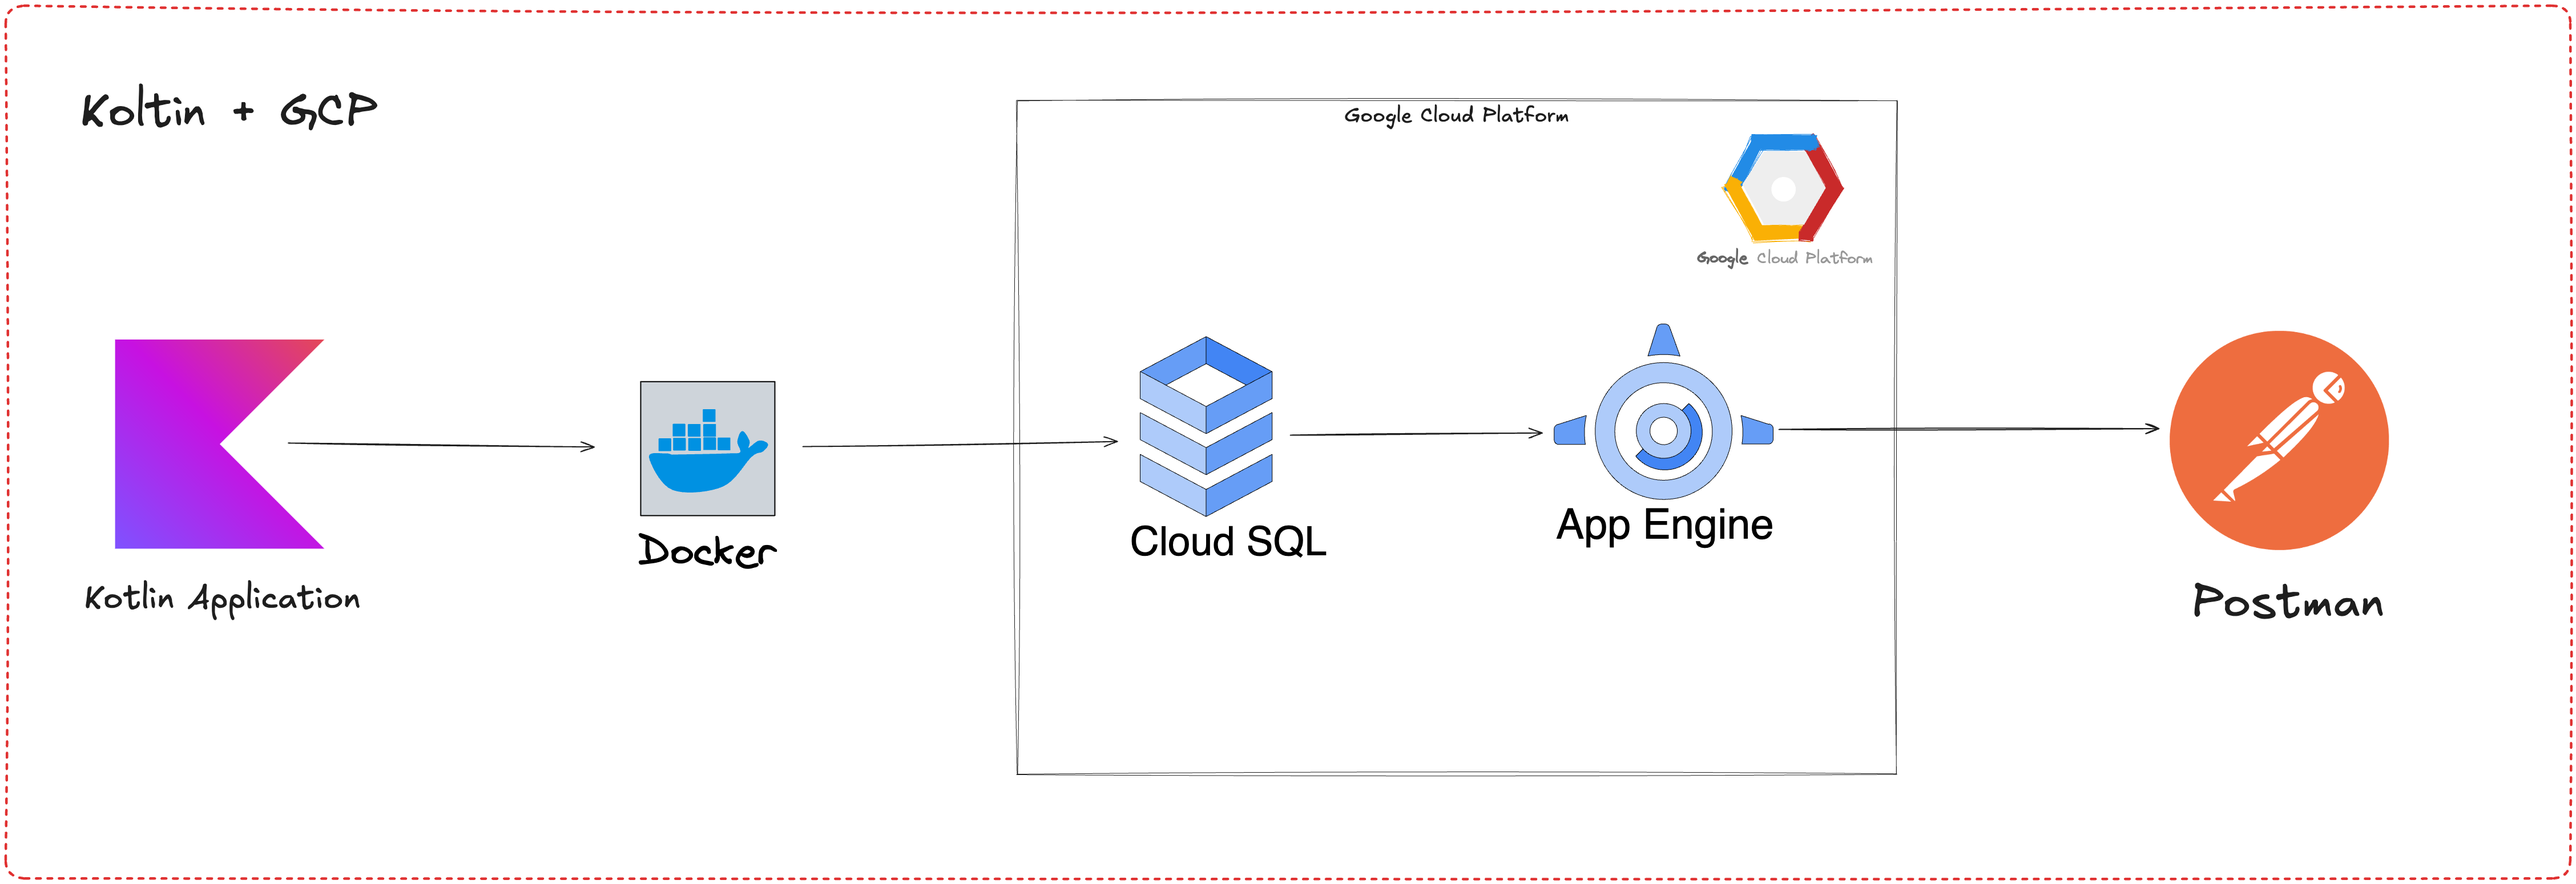
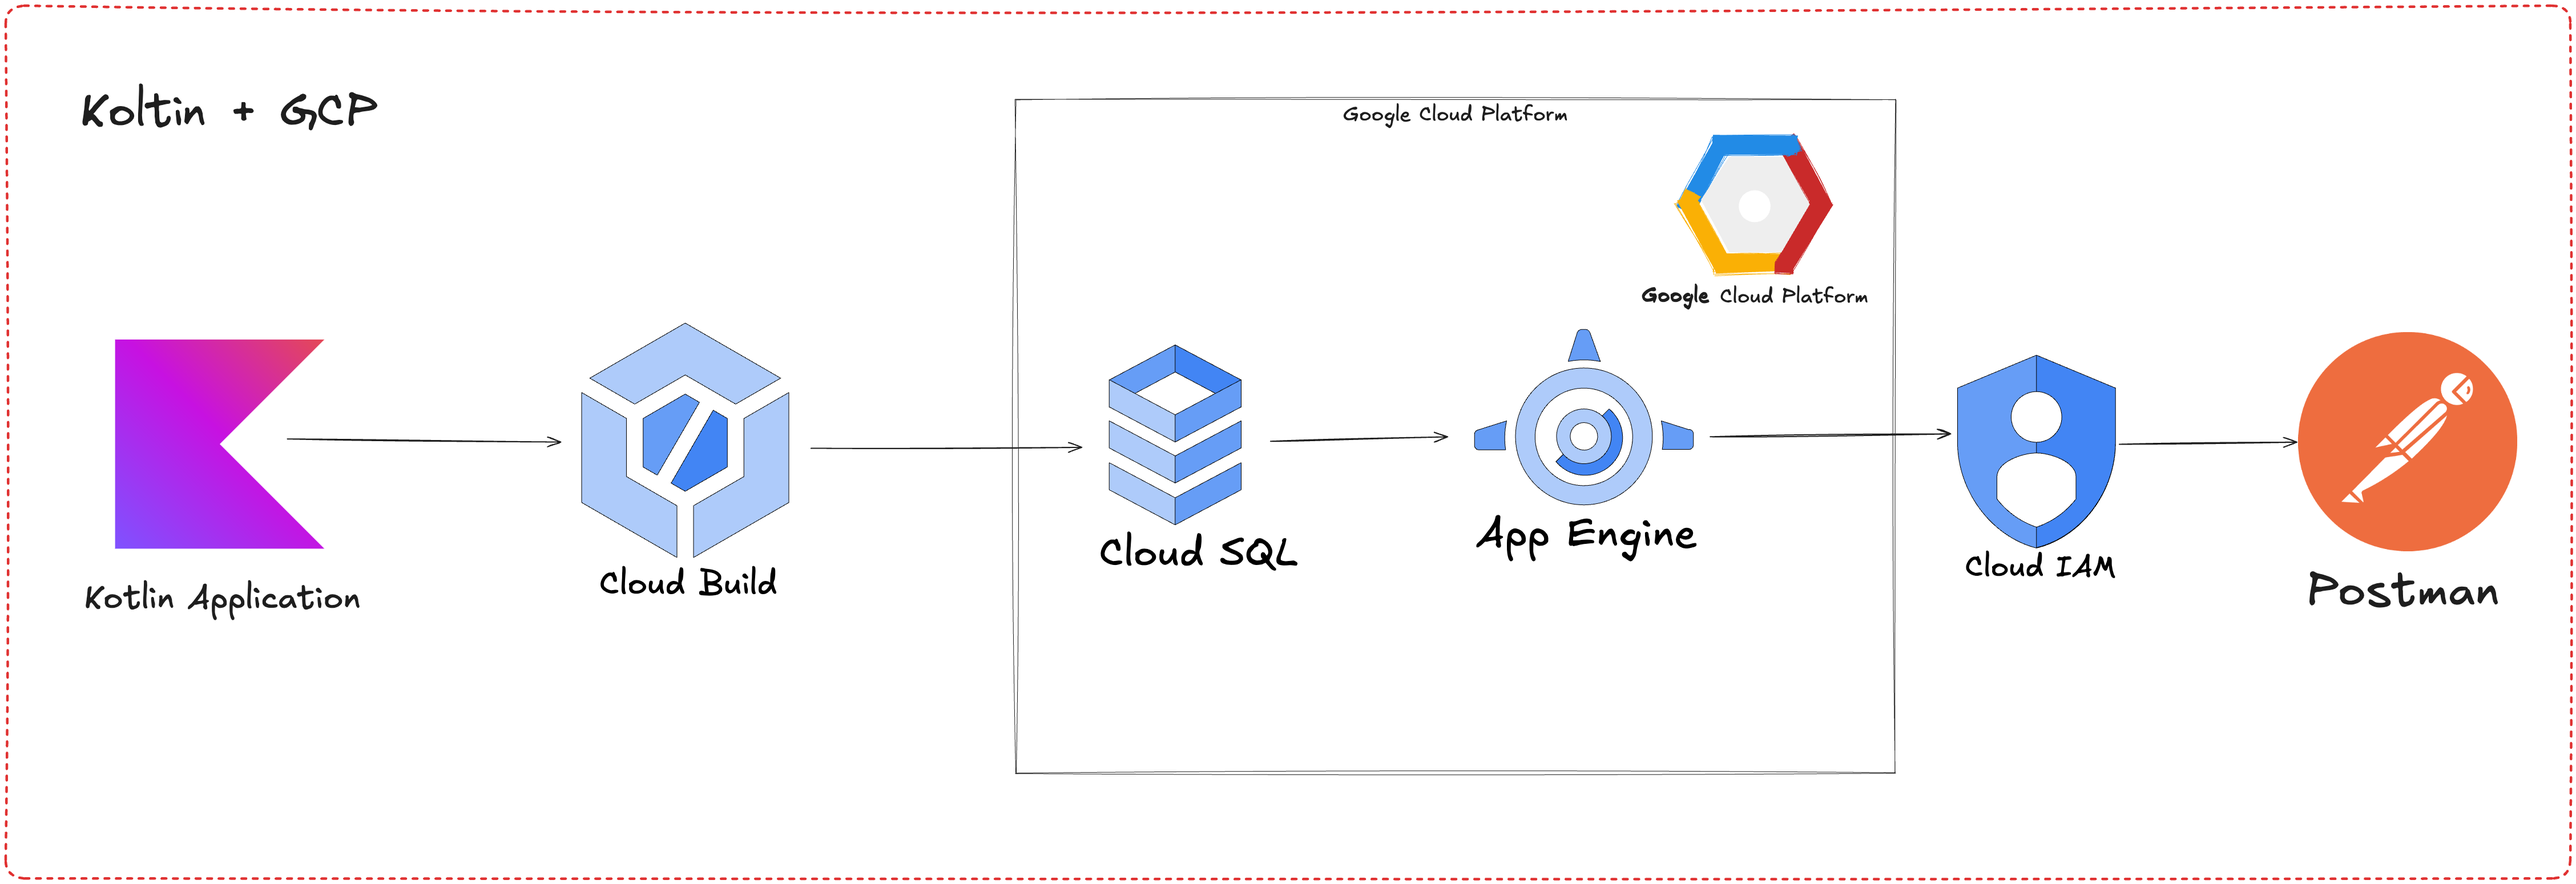
V[0.0.4] Update creation api

diff --git a/docs/create_api_rest.md b/docs/create_api_rest.md
@@ -1,3 +1,205 @@
-# **Creacion API REST**
+# **Creación de una API REST con Kotlin y Spring Boot**
 
-Creacion de api rest
+En esta primera fase, desarrollaremos una API REST desde cero utilizando **Kotlin, Spring Boot, y PostgreSQL**. Nos enfocaremos en el desarrollo local, incluyendo la configuración de la base de datos con **Docker Compose** y la gestión de migraciones con **Flyway**. Despues realizaremos pruebas locales para validar el correcto funcionamiento de los endpoints. En la siguiente fase abordaremos el despliegue en **Google Cloud** utilizando **App Engine y Cloud SQL**.
+
+## **Fase 1: Creación de la API REST y Pruebas Locales**
+
+### **Estructura del Proyecto**
+
+El proyecto está organizado de la siguiente manera:
+
+```bash
+src
+ ├── main
+ │   ├── kotlin
+ │   │   └── com.geovannycode
+ │   │       ├── 📄 KotlinGcpApplication.kt
+ │   │       ├── 📄 Speaker.kt
+ │   │       ├── 📄 SpeakerController.kt
+ │   │       ├── 📄 SpeakerRepository.kt
+ │   │       └── 📄 SpeakerService.kt
+ │   └── resources
+ │       ├── 📁 db
+ │       │   └── migration
+ │       │       ├── 📄 V1__Create_Speaker_Table.sql
+ │       │       └── 📄 V2__Add_Data_Speaker.sql
+ │       ├── 📁 static
+ │       ├── 📁 templates
+ │       └── 📁 application.properties
+```
+
+- Paquete principal (com.geovannycode): Contiene todas las clases de la aplicación: el punto de entrada (KotlinGcpApplication), la entidad (Speaker), la lógica de negocio (SpeakerService), el repositorio (SpeakerRepository) y el controlador REST (SpeakerController).
+- Directorio de recursos (resources):
+    - db/migration: Archivos SQL utilizados por Flyway para la creación y migración de datos.
+    - application.properties: Configuración de conexión a la base de datos.
+
+1. Implementación Técnica
+Punto de Entrada: KotlinGcpApplication.kt
+
+@SpringBootApplication
+class KotlinGcpApplication
+
+fun main(args: Array<String>) {
+    runApplication<KotlinGcpApplication>(*args)
+}
+Esta clase define el punto de entrada de la aplicación:
+
+@SpringBootApplication: Configura automáticamente los componentes de Spring (escaneo de clases, configuración de beans, y más).
+runApplication: Inicia la aplicación y el servidor embebido (Tomcat).
+
+Modelo de Datos: Speaker.kt
+kotlin
+Copiar código
+@Entity
+@Table(name = "speakers")
+data class Speaker(
+    @Id
+    @GeneratedValue(strategy = GenerationType.SEQUENCE, generator = "speaker_id_generator")
+    @SequenceGenerator(name = "speaker_id_generator", sequenceName = "speaker_id_seq")
+    val id: Long? = null,
+    val name: String,
+    val country: String
+)
+Este archivo define la estructura de la tabla speakers en la base de datos:
+
+@Entity: Marca la clase como una entidad JPA, que mapea un registro de la tabla.
+@Table: Define el nombre de la tabla como speakers.
+Campos:
+id: Clave primaria generada automáticamente usando una secuencia PostgreSQL.
+name: Almacena el nombre del speaker.
+country: Almacena el país de origen del speaker.
+El uso de una data class de Kotlin facilita la inmutabilidad y proporciona métodos como copy().
+
+Repositorio: SpeakerRepository.kt
+kotlin
+Copiar código
+@Repository
+interface SpeakerRepository : CrudRepository<Speaker, Long>
+Este repositorio hereda de CrudRepository, proporcionando métodos como:
+findById: Busca un registro por su ID.
+findAll: Devuelve todos los registros.
+save: Guarda o actualiza un registro.
+deleteById: Elimina un registro por ID.
+Spring Data JPA se encarga de la implementación del repositorio, permitiéndonos enfocarnos en la lógica de negocio.
+Servicio: SpeakerService.kt
+kotlin
+Copiar código
+@Service
+@Transactional
+class SpeakerService(val repo: SpeakerRepository) {
+    fun getSpeaker(id: Long) = repo.findById(id)
+    fun createSpeaker(speaker: Speaker) = repo.save(speaker)
+    fun deleteSpeaker(id: Long) = repo.deleteById(id)
+    fun getSpeakers(): List<Speaker> = repo.findAll().toList()
+    fun updateSpeaker(id: Long, updatedSpeaker: Speaker): Speaker? {
+        return if (repo.existsById(id)) {
+            val speakerToUpdate = updatedSpeaker.copy(id = id)
+            repo.save(speakerToUpdate)
+        } else {
+            null
+        }
+    }
+}
+createSpeaker: Inserta un nuevo speaker en la base de datos.
+getSpeakers: Recupera todos los registros como una lista.
+getSpeaker: Busca un speaker por ID.
+updateSpeaker:
+Comprueba si el ID existe.
+Usa el método copy() para mantener la inmutabilidad de la entidad.
+Guarda el registro actualizado.
+deleteSpeaker: Elimina un registro.
+Controlador REST: SpeakerController.kt
+kotlin
+Copiar código
+@RestController
+@RequestMapping("/api/speakers")
+class SpeakerController(private val service: SpeakerService) {
+
+    @GetMapping
+    fun getSpeakers(): ResponseEntity<List<Speaker>> =
+        ResponseEntity.ok(service.getSpeakers())
+
+    @GetMapping("/{id}")
+    fun getSpeaker(@PathVariable id: Long): ResponseEntity<Speaker> =
+        service.getSpeaker(id).map { ResponseEntity.ok(it) }
+            .orElse(ResponseEntity.notFound().build())
+
+    @PostMapping
+    fun createSpeaker(@RequestBody speaker: Speaker): ResponseEntity<Speaker> =
+        ResponseEntity.ok(service.createSpeaker(speaker))
+
+    @DeleteMapping("/{id}")
+    fun deleteSpeaker(@PathVariable id: Long): ResponseEntity<Void> {
+        service.deleteSpeaker(id)
+        return ResponseEntity.noContent().build()
+    }
+
+    @PutMapping("/{id}")
+    fun updateSpeaker(@PathVariable id: Long, @RequestBody updatedSpeaker: Speaker): ResponseEntity<Speaker> {
+        val updated = service.updateSpeaker(id, updatedSpeaker)
+        return if (updated != null) {
+            ResponseEntity.ok(updated)
+        } else {
+            ResponseEntity.notFound().build()
+        }
+    }
+}
+Este archivo expone los endpoints para interactuar con la API:
+
+GET /api/speakers: Recupera todos los speakers.
+POST /api/speakers: Crea un nuevo registro.
+GET /api/speakers/{id}: Devuelve un speaker por ID.
+PUT /api/speakers/{id}: Actualiza un registro existente.
+DELETE /api/speakers/{id}: Elimina un registro por ID.
+2. Configuración Local
+Base de Datos con Docker Compose
+Archivo docker-compose.yaml
+yaml
+Copiar código
+services:
+  postgres_gcp:
+    container_name: "postgres_gcp"
+    image: 'postgres:16'
+    env_file: ./.env
+    ports:
+      - ${DB_LOCAL_PORT}:${DB_DOCKER_PORT}
+    environment:
+      POSTGRES_USER: ${POSTGRES_USER}
+      POSTGRES_PASSWORD: ${POSTGRES_PASSWORD}
+      POSTGRES_DB: ${POSTGRES_DB}
+Asegúrate de configurar las variables en el archivo .env para personalizar los valores.
+Levanta el servicio con:
+bash
+Copiar código
+docker-compose up -d
+Migraciones con Flyway
+Flyway asegura la creación y migración de la base de datos.
+
+V1__Create_Speaker_Table.sql
+sql
+Copiar código
+CREATE SEQUENCE speaker_id_seq START 1 INCREMENT BY 50;
+
+CREATE TABLE speakers (
+    id BIGINT DEFAULT nextval('speaker_id_seq') NOT NULL,
+    name VARCHAR(255) NOT NULL,
+    country VARCHAR(255) NOT NULL,
+    PRIMARY KEY (id)
+);
+V2__Add_Data_Speaker.sql
+sql
+Copiar código
+INSERT INTO speakers (id, name, country) VALUES (nextval('speaker_id_seq'), 'Geovanny Mendoza', 'Colombia');
+3. Pruebas Locales con Postman
+Utiliza Postman para probar los endpoints. Ejemplo:
+
+GET /api/speakers: Recupera todos los speakers.
+POST /api/speakers: Crea un nuevo speaker con este JSON:
+json
+Copiar código
+{
+    "name": "John Doe",
+    "country": "USA"
+}
+PUT /api/speakers/{id}: Actualiza un speaker.
+DELETE /api/speakers/{id}: Elimina un speaker.

diff --git a/docs/despliegue_gcp.md b/docs/despliegue_gcp.md
@@ -1,0 +1,64 @@
+# Despliegue
+
+`./google-cloud-sdk/bin/gcloud init`
+
+Listar configuración del proyecto
+
+`./google-cloud-sdk/bin/gcloud config list`
+
+
+- Adiciona el archivo .gcloudignore
+
+- Adicionamos el archivo app.yaml
+`runtime: java21`
+`instance_class: F2`
+
+Paso siguiente ejecutamos `gcloud app deploy`
+
+Nos retorna la url
+
+`https://famous-cursor-442219-q6.rj.r.appspot.com`
+
+Despues que funcione todo
+
+Colocar la seguridad
+
+1ro Es eliminar la ip publica
+
+cloud SQL Admin API
+
+y le damos habliitar 
+
+Ya funciona pero hemos dejado la aplicacion expuesta, entonces debemos hacer unos ajustes
+
+Despues vamos a spring gcp y nos traemos la dependencia 
+
+Despues vamos al archivo application.properties y comentamos la url
+
+Vamos a cerrar las conexiones para que sea seguro.
+
+Despues buscamos cloud sql admin api
+
+luego spring boot tiene un conjunto de herramientas para comunicarce con otras plataformas. en el caso de spring cloud gcp
+
+Adicionamos la dependencia 
+
+`implementation("com.google.cloud:spring-cloud-gcp-starter-sql-postgresql")`
+
+Ahora vamos a cambiar la conexion entonces buscamos cadena de conexion 
+
+Adicionamos dos propiedades 
+
+spring.cloud.gcp.sql.database-name=kotlindb
+spring.cloud.gcp.sql.instance-connection-name=famous-cursor-442219-q6:us-central1:kotlinbase
+
+y despues ejecutamos con gcloud app deploy
+
+
+Vamos a IAM Google cloud 
+
+despues ejecutamos el siguiente comando `gcloud auth application-deafult login`
+
+Despues ejecutamos kotlin de manera local y podemos acceder a la base de datos
+
+

diff --git a/docs/referencias.md b/docs/referencias.md
@@ -1,0 +1,11 @@
+# Referencias
+
+[Descaraga de Google Cloud SDK](https://cloud.google.com/sdk/docs/install?hl=es-419)
+
+[Documentación Spring GCP](https://spring.io/projects/spring-cloud-gcp#learn)
+
+[Documentación Spring GCP SQL PostgreSQL](https://googlecloudplatform.github.io/spring-cloud-gcp/5.8.0/reference/html/index.html#cloud-sql)
+
+[Google Cloud GCP](https://cloud.google.com/sql?hl=es_419)
+
+[App Engine](https://cloud.google.com/appengine/?hl=es_419)

diff --git a/docs/index.md b/docs/index.md
@@ -20,7 +20,7 @@ El desarrollo de aplicaciones modernas requiere herramientas robustas y eficient
     - **Google Cloud SDK**: Instalado y configurado para interacciones con App Engine.
     - **gcloud CLI Tool**: Para manejar despliegues desde la terminal.
 
-## **Paso a paso basado en Spring Initializr**:
+## **Paso a paso basado en Spring Initializr**
 
 ![GeoLabs Kotlin GCP](./files/Imagen01.png "GeoLabs Kotlin GCP")
 
